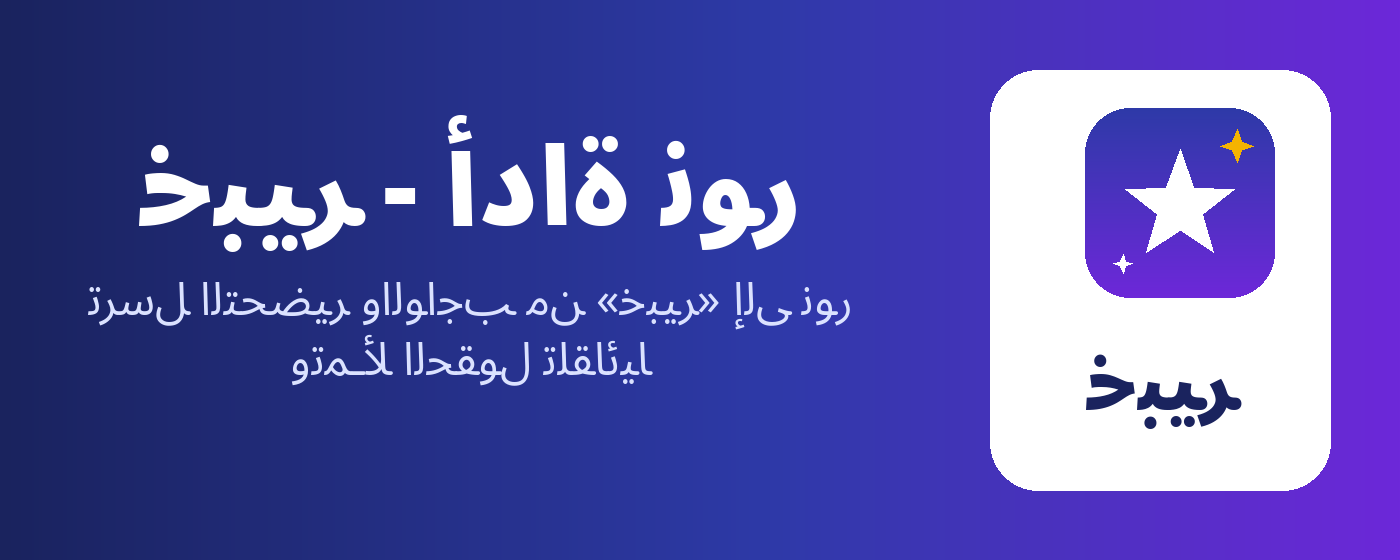
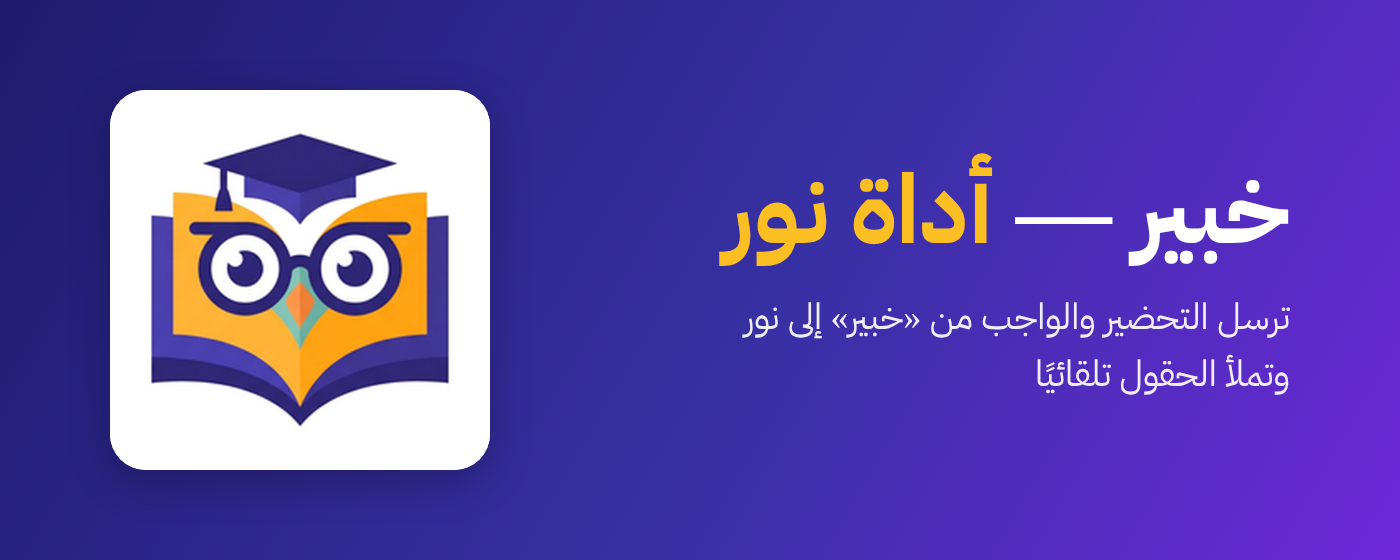
إضافة خبير للمتاجر: معرّف فايرفوكس خاص، نطاقات خبير فقط، صور متجر جديدة، وبيانات النشر
Claude-Session: https://claude.ai/code/session_019bzJDegsmFP6c6AKmwQbcs

diff --git a/site/extension/STORE_LISTING.md b/site/extension/STORE_LISTING.md
@@ -1,32 +1,15 @@
 # نشر إضافة «خبير — أداة نور» في المتاجر
 
 الحزم تُبنى بالأمر `python3 site/tools/build_ext.py` في `site/dist/store/`:
-- `kabsula-chrome-edge-<الإصدار>.zip` ← متجر Chrome **و** متجر Edge (نفس الملف)
-- `kabsula-firefox-<الإصدار>.zip` ← متجر Firefox (AMO)
+- `khabeer-chrome-edge-<الإصدار>.zip` ← متجر Edge (ومتجر Chrome لاحقًا إن أردت — نفس الملف)
+- `khabeer-firefox-<الإصدار>.zip` ← متجر Firefox (AMO)
+- `amo-source-<الإصدار>.zip` (بالأمر `python3 site/tools/make_amo_source.py`) ← فقط لو طلب مراجع موزيلا الكود المصدري
 
-الإضافة تُبنى من نسخة من سكربت أداة نور (`tahdir-noor.user.js`) **دون أي تعديل عليه**، فسكربت
-Tampermonkey المثبَّت عند المعلمين لا يتأثر. ولو ثبّت معلم الإضافة وTampermonkey معًا لا تعمل الأداة مرتين.
+**إضافة جديدة مستقلة، لا تحديث لإضافة أخرى:** معرّف فايرفوكس `noor-tool@khaber.site`، والإضافة تعمل على
+`khaber.site` و`khabeer.khabeer.workers.dev` ومنصة نور فقط. سكربت Tampermonkey لا يتأثر، ولو اجتمعا لا تعمل الأداة مرتين.
 
-بعد النشر: ضع رابط صفحة الإضافة في كل متجر داخل `EXT_STORE` في `site/server/common.js`
-فيظهر للمعلم «مرشد التثبيت» (ضغطتان) بدل خطوات Tampermonkey.
-
-**تم النشر:**
-- **Microsoft Edge Add-ons**: https://microsoftedge.microsoft.com/addons/detail/%D8%A7%D9%84%D9%83%D8%A8%D8%B3%D9%88%D9%84%D8%A9-%E2%80%94-%D8%A3%D8%AF%D8%A7%D8%A9-%D9%86%D9%88%D8%B1/jbpbibeppdfddjlhkeobfkbccbjcnjpd —
-  الرابط موضوع في `EXT_STORE.edge`. معلمو Edge يتثبّتون من المتجر مباشرة (بلا Tampermonkey ولا ZIP)،
-  ومن لديه النسخة القديمة «غير المجمّعة» يُوجَّه في إشعار التحديث إلى نسخة المتجر (كود الإضافة يعلن
-  مصدرها عبر `data-tahdir-ext-src` بـ`store` فيتحدّث تلقائيًا بلا تنبيهات).
-- **Firefox (AMO) — النسخة المدرِجة (Listed): اعتمدتها موزيلا ✅** (٢٠٢٦-١٠-٢٤، معرّف
-  `noor-tool@elkabsula.site`): صفحة الإضافة الرسمية
-  `https://addons.mozilla.org/firefox/addon/الكبسولة-أداة-نور/` موضوع في `EXT_STORE.firefox`
-  في `site/server/common.js`. المعلم يثبّت من صفحة المتجر بضغطتين («إضافة إلى Firefox» ←
-  «إضافة») بلا Tampermonkey، ويتحدّث تلقائيًا من AMO مع كل إصدار — بلا تغيير أي رابط.
-  للتحديث: ارفع `kabsula-firefox-<الإصدار>.zip` كإصدار جديد في نفس التسجيل على AMO.
-- **نسخة Unlisted الموقَّعة — مسار احتياطي يبقى كما هو** (معرّف `noor-tool-unlisted@elkabsula.site`،
-  رقم التسجيل 3104946): لا تُحذف ولا يُتغير رابطها. إن احتجنا إليها (حجب المتجر، مشكلة في
-  النسخة المدرِجة) نضع رابط ملف .xpi الموقَّع في `EXT_STORE.firefox` — فمرشد التثبيت يتعرف
-  على رابط .xpi المباشر ويتبعا الخطوة القديمة («افتح الرابط» ← «إضافة») تلقائيًا.
-- ملف الكود المصدري الذي طلبته مراجعة AMO يُبنى بـ `site/tools/make_amo_source.py`
-  (وصفه في `site/extension/AMO_SOURCE.md`)، وقد قبِلوا المصدر ووافقوا.
+**بعد الموافقة:** ضع رابط صفحة الإضافة في كل متجر داخل `EXT_STORE` في `site/server/common.js`
+(مكان الروابط الحالية). عندها يظهر للمعلم في فايرفوكس وإيدج زر «تثبيت الإضافة»، وTampermonkey ممنوع فيهما (`TM_BLOCKED`).
 
 ---
 
@@ -46,58 +29,56 @@ Tampermonkey المثبَّت عند المعلمين لا يتأثر. ولو ث
 • لا تجمع أي بيانات ولا ترسل شيئًا لأي خادم؛ كل شيء يبقى على جهاز المعلم.
 • تتحدّث تلقائيًا من المتجر.
 
-خبير: منصة المعلمين.
 (ليست تطبيقًا رسميًا لوزارة التعليم.)
 
 **Full description (English):**
-A free helper for teachers in Oman that works with the "Khabeer" lesson-prep platform (khaber.site).
+A free helper for teachers in Oman that works with the "Khabeer" teaching platform (khaber.site).
 
-• Pick a lesson on Elkabsula and click "Send preparation to Nour": the extension opens the "Add preparation" page for the right class on the Nour LMS (lms.moe.gov.om) and fills in the fields.
+• Pick a lesson on Khabeer and click "Send preparation to Nour": the extension opens the "Add preparation" page for the right class on the Nour LMS (lms.moe.gov.om) and fills in the fields.
 • Homework: fills the assignment form and adds the questions in one batch.
 • It never clicks "Save" — the teacher reviews and saves.
 • Collects no data and sends nothing to any server; everything stays on the teacher's device.
 
-A school initiative by Mohamed Magdy, Biology teacher, Hudhaifa bin Muhsin School. Not an official Ministry of Education app.
+Not an official Ministry of Education app.
 
 **الفئة:** Education / التعليم (فايرفوكس: Other أو Productivity)
 **الموقع (Homepage):** https://khaber.site/
 **سياسة الخصوصية:** https://khaber.site/privacy
 **الدعم (Support URL):** https://khaber.site/support
-**الظهور:** Unlisted (غير مدرجة — تظهر فقط لمن معه الرابط) أو Public حسب رغبتك
+**الظهور:** Public (منشورة) أو Hidden/Unlisted حسب رغبتك
 
 **الصور (في مجلد store-images):**
 | الملف | المقاس | أين يُستخدم |
 |---|---|---|
 | icon128.png (داخل الحزمة) | 128×128 | Chrome · Firefox |
 | logo300.png | 300×300 | Edge: Extension Store logo |
-| shot_app.png · shot2.png | 1280×800 | لقطات الشاشة (Chrome · Edge · Firefox) |
-| tile440.png | 440×280 | Chrome: Small promo tile · Edge: Small promotional tile |
-| marquee1400.png | 1400×560 | Chrome: Marquee (اختياري) · Edge: Large promotional tile (اختياري) |
+| shot_app.png · shot2.png | 1280×800 | لقطات الشاشة (Edge · Firefox · Chrome) |
+| tile440.png | 440×280 | Edge: Small promotional tile · Chrome: Small promo tile |
+| marquee1400.png | 1400×560 | Edge: Large promotional tile (اختياري) · Chrome: Marquee (اختياري) |
 
 ---
 
-## Chrome Web Store — تبويب Privacy practices
-
-**Single purpose:**
-Transfers a teacher's lesson preparation and homework from the Elkabsula website into the Nour LMS (lms.moe.gov.om) forms.
-
-**Permission justification:**
-- storage: keeps the lesson the teacher just sent from Elkabsula until the Nour page opens and is filled (local only).
-- Host permissions (lms.moe.gov.om and the Elkabsula domains): needed to receive the "send" action on the Elkabsula site and to fill the preparation/homework forms on Nour; after installation the extension reloads any open Elkabsula tab so the tool works immediately.
-
-**Remote code:** No, I am not using remote code.
-**Data usage:** لا تختر أي نوع بيانات، ثم فعّل الإقرارات الثلاثة (I do not sell… / I do not use… / I do not use… for creditworthiness).
-
 ## Edge Add-ons (Partner Center)
 
-- Availability: Hidden (غير مدرجة) أو Public — الأسواق: كل الأسواق أو Oman على الأقل.
+- Extensions ← **Create new extension** ← ارفع `khabeer-chrome-edge-<الإصدار>.zip`.
+- Availability: Public أو Hidden — الأسواق: كل الأسواق أو Oman على الأقل.
 - Category: Education. Privacy policy: نعم ← الرابط أعلاه.
 - **Notes for certification:** «The extension only works on khaber.site (teacher login required) and lms.moe.gov.om (Ministry of Education LMS, teacher login required). It fills web forms with lesson text the teacher sends from the Khabeer site and never submits them.»
 
 ## Firefox (addons.mozilla.org)
 
-- Developer Hub ← Submit a New Add-on ← **On this site** (منشورة على المتجر).
-- ارفع `kabsula-firefox-<الإصدار>.zip`. لا يوجد كود مصغّر، فلن يطلب «source code» (لو سأل: No).
+- Developer Hub ← **Submit a New Add-on** ← **On this site** (منشورة على المتجر).
+- ارفع `khabeer-firefox-<الإصدار>.zip`. لا يوجد كود مصغّر؛ لو طلب المراجع الكود المصدري ارفع `amo-source-<الإصدار>.zip`.
 - Data collection: الحزمة تعلن `data_collection_permissions: none`.
 - Notes to reviewer: نفس نص Edge أعلاه.
 - يعمل على Firefox 140+ للكمبيوتر وFirefox 142+ للأندرويد.
+
+## Chrome Web Store (اختياري — كروم يبقى على Tampermonkey حاليًا)
+
+**Single purpose:** Transfers a teacher's lesson preparation and homework from the Khabeer website into the Nour LMS (lms.moe.gov.om) forms.
+
+**Permission justification:**
+- storage: keeps the lesson the teacher just sent from Khabeer until the Nour page opens and is filled (local only).
+- Host permissions (lms.moe.gov.om and the Khabeer domains): needed to receive the "send" action on the Khabeer site and to fill the preparation/homework forms on Nour.
+
+**Remote code:** No. **Data usage:** لا تختر أي نوع بيانات، ثم فعّل الإقرارات الثلاثة.

diff --git a/site/extension/AMO_SOURCE.md b/site/extension/AMO_SOURCE.md
@@ -1,4 +1,4 @@
-# Elkabsula — Nour Tool (Firefox) — Source Code Submission
+# Khabeer — Nour Tool (Firefox) — Source Code Submission
 
 This package contains the complete source code of the add-on
 «خبير — أداة نور» (Khabeer — Nour Tool) and the exact steps to
@@ -36,8 +36,8 @@ placeholder strings inside a template file, plus verbatim file copying.
 3. Create the add-on package by zipping the **contents** of
    `site/dist/ext/` (files at the root of the archive).
    This reproduces exactly the submitted package
-   `kabsula-firefox-unlisted-<version>.zip` (the same files are also
-   produced automatically as `site/dist/store/kabsula-firefox-unlisted-<version>.zip`).
+   `khabeer-firefox-unlisted-<version>.zip` (the same files are also
+   produced automatically as `site/dist/store/khabeer-firefox-unlisted-<version>.zip`).
 
 4. The add-on version equals the `@version` value in the header of
    `server/tahdir-noor.user.js` (currently **3.5.0**).
@@ -51,7 +51,7 @@ placeholder strings inside a template file, plus verbatim file copying.
 | `extension/bridge.js` | Hand-written glue: passes the lesson data from the platform page (isolated world) to the MAIN world shim. |
 | `extension/background.js` | Hand-written service worker: re-opens/reloads the platform tab after installation. |
 | `server/icons.json` | Icon PNG (data URIs) used by the build to generate the icon files. |
-| `tools/build_ext.py` | The build script. For Firefox it also writes `browser_specific_settings` (gecko id `noor-tool-unlisted@elkabsula.site`, `data_collection_permissions: none`, `strict_min_version` 140.0 / Android 142.0) and converts the background to event-page style. |
+| `tools/build_ext.py` | The build script. For Firefox it also writes `browser_specific_settings` (gecko id `noor-tool-unlisted@khaber.site`, `data_collection_permissions: none`, `strict_min_version` 140.0 / Android 142.0) and converts the background to event-page style. |
 
 ## Notes for reviewers
 
@@ -60,5 +60,5 @@ placeholder strings inside a template file, plus verbatim file copying.
 - The tool only touches two sites: **khaber.site** (teacher logs in
   first) and **lms.moe.gov.om** (Ministry of Education LMS, teacher
   login required). It fills web forms with lesson text the teacher
-  explicitly sends from the Elkabsula platform and **never clicks Save**.
+  explicitly sends from the Khabeer platform and **never clicks Save**.
 - It collects no data and contacts no server.
